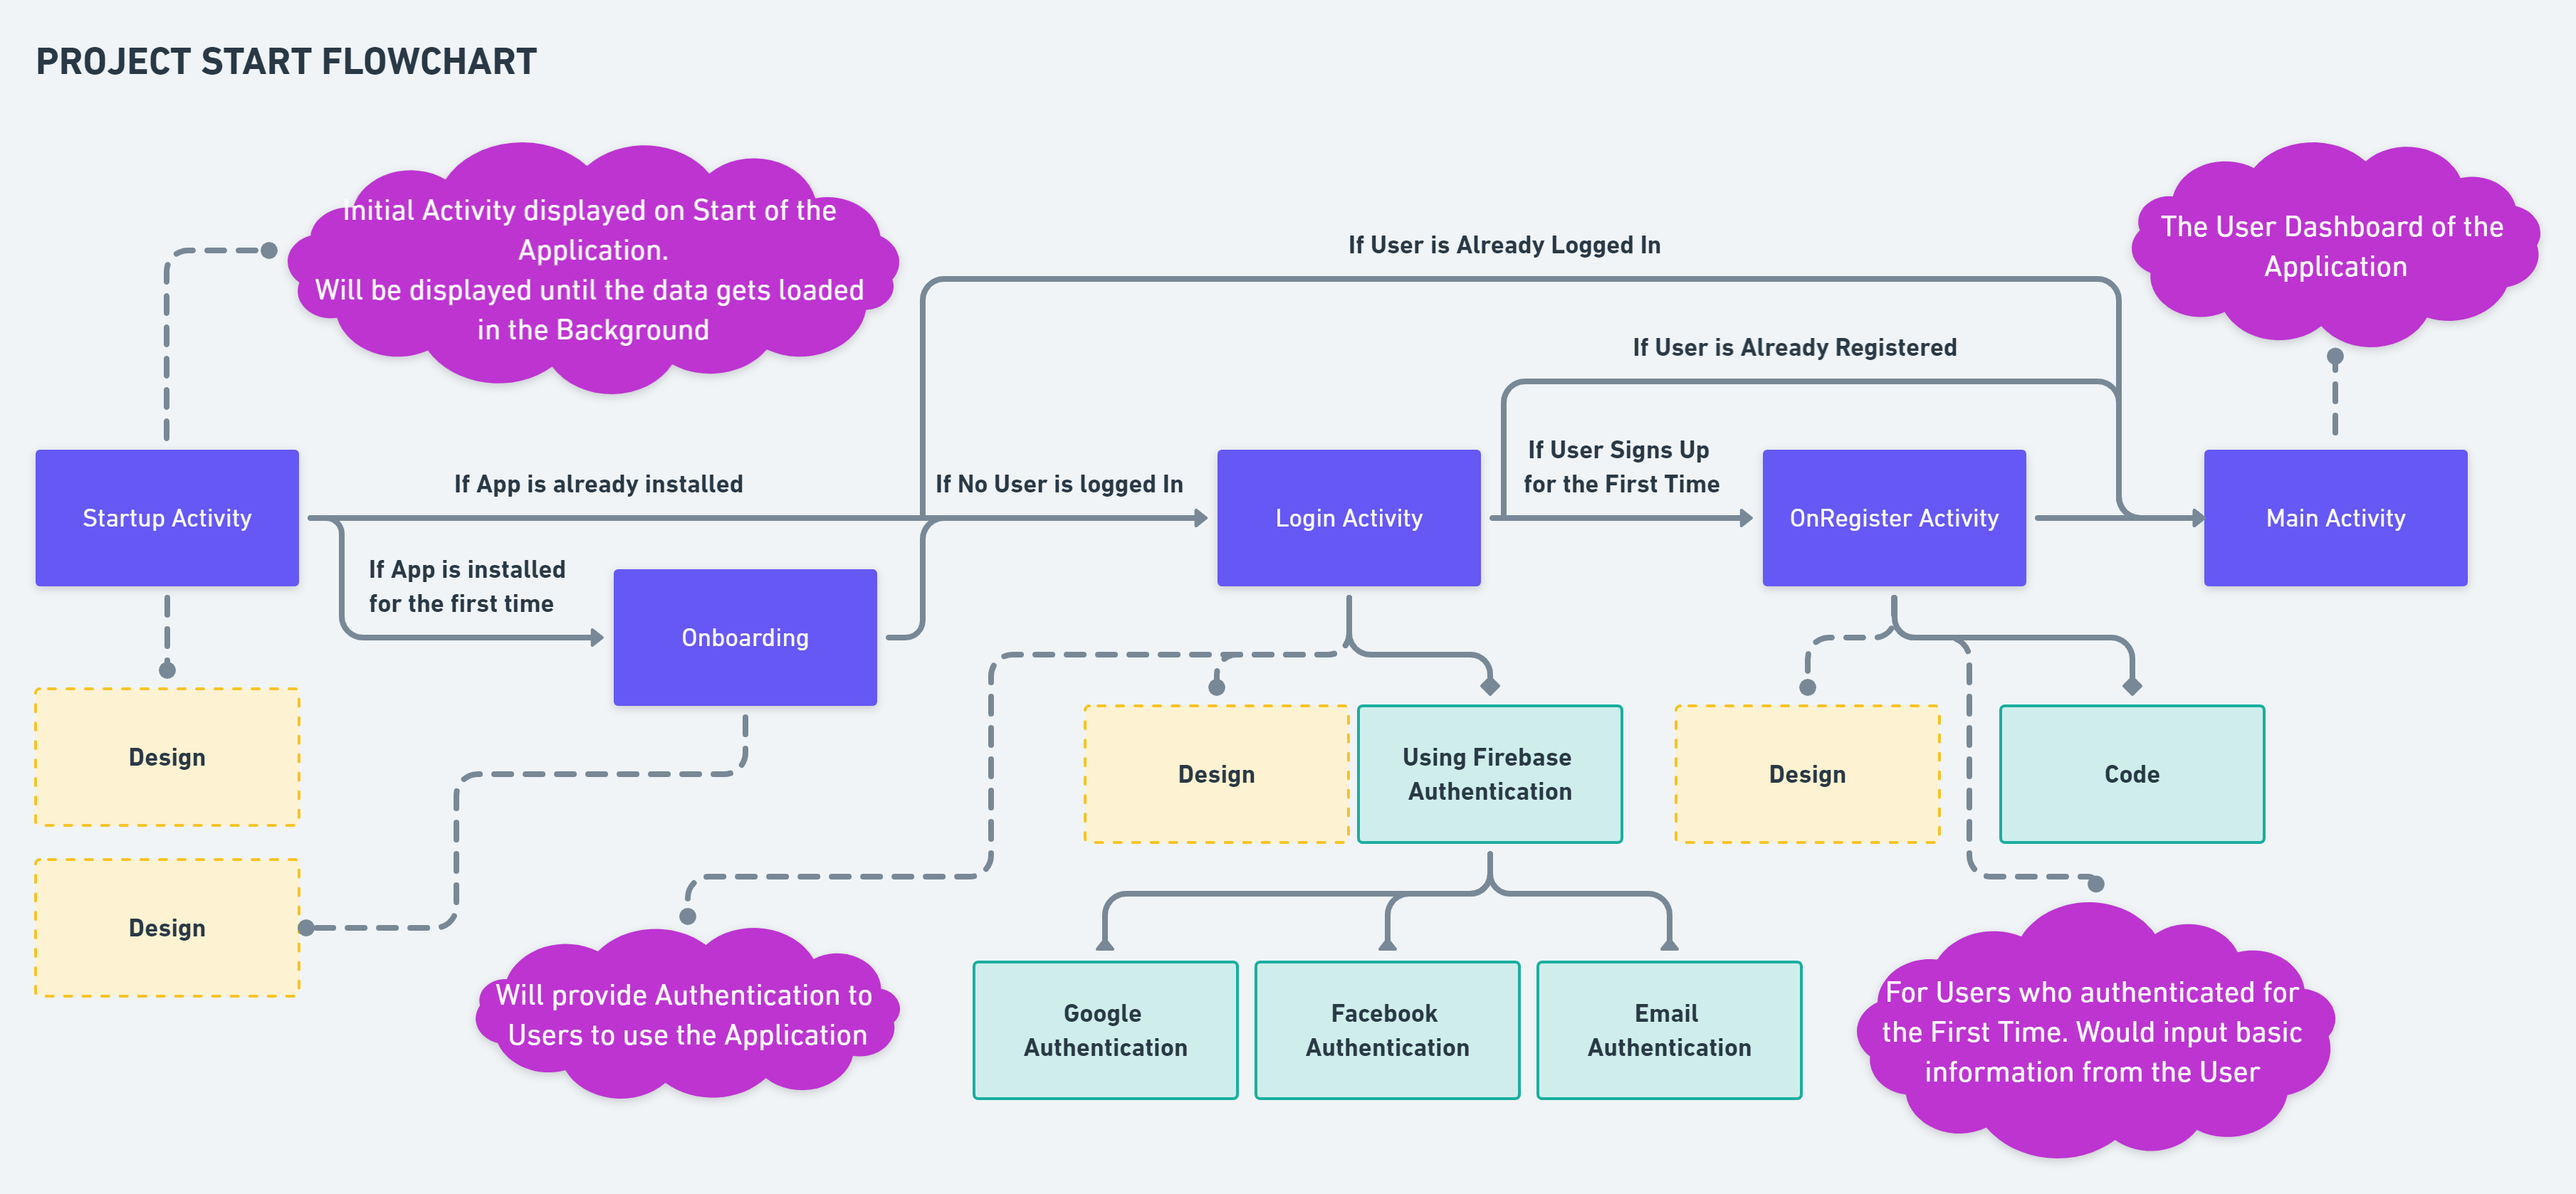
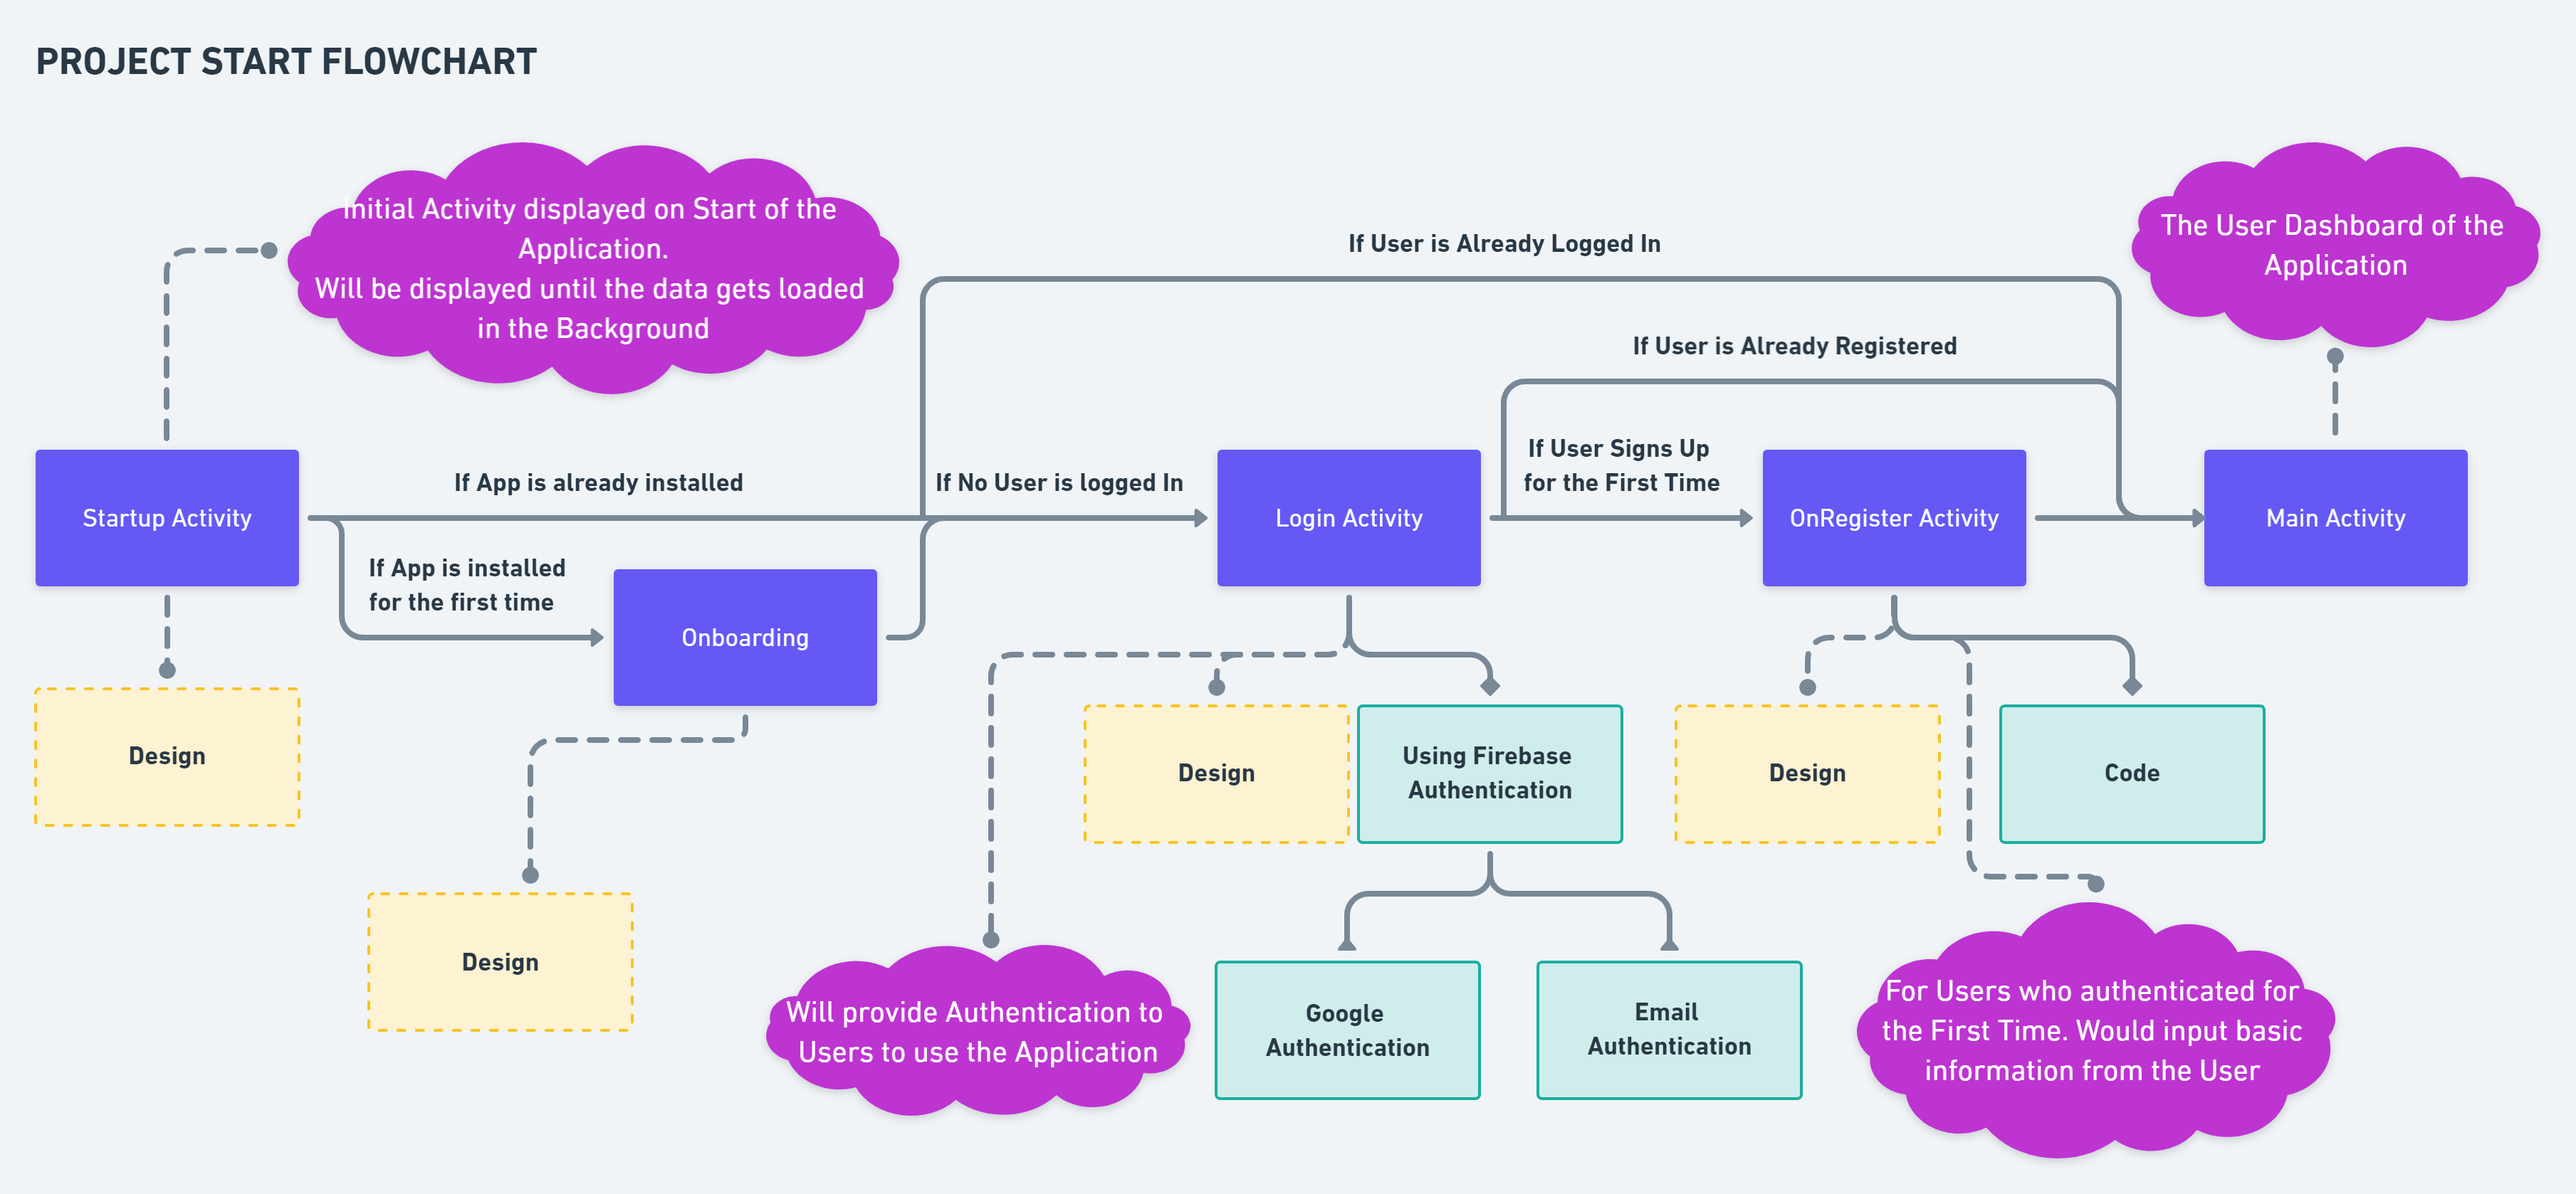
Integrated the Project with Firebase and Added Login Activity

diff --git a/app/src/main/java/com/example/chatapp/LoginActivity.java b/app/src/main/java/com/example/chatapp/LoginActivity.java
@@ -1,0 +1,14 @@
+package com.example.chatapp;
+
+import androidx.appcompat.app.AppCompatActivity;
+
+import android.os.Bundle;
+
+public class LoginActivity extends AppCompatActivity {
+
+    @Override
+    protected void onCreate(Bundle savedInstanceState) {
+        super.onCreate(savedInstanceState);
+        setContentView(R.layout.activity_login);
+    }
+}
